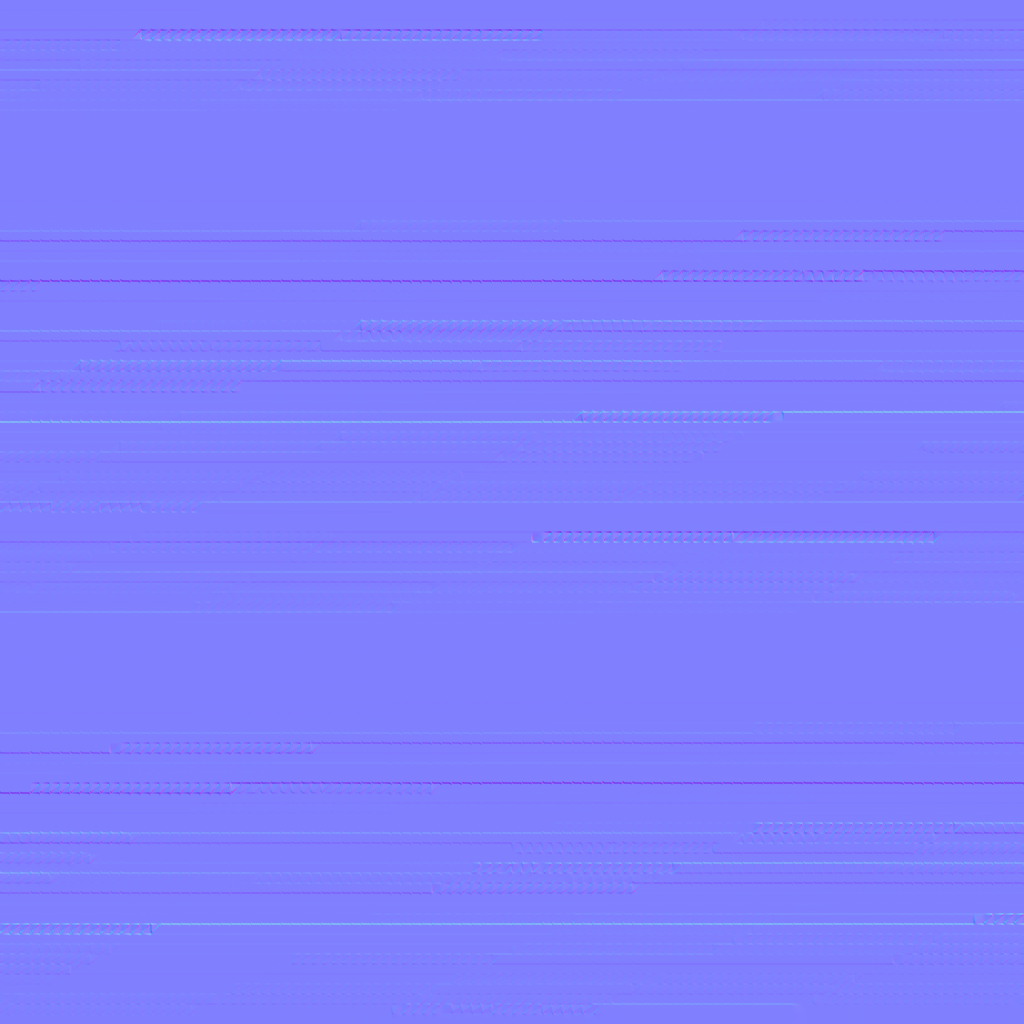
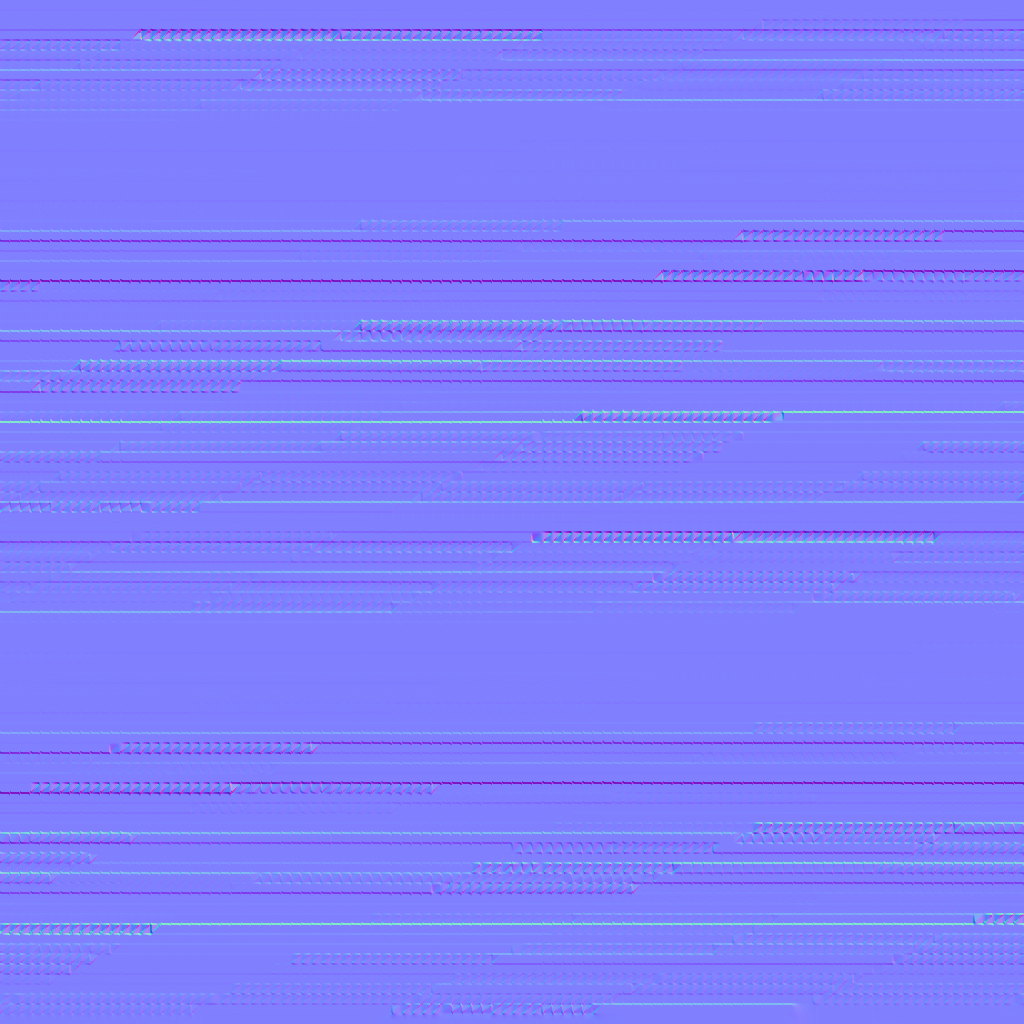
output

diff --git a/qt_3dviewer/scenemodifier.cpp b/qt_3dviewer/scenemodifier.cpp
@@ -66,7 +66,7 @@ void SceneModifier::loadImage(const QString &fileName)
     // Object
     QFileInfo filmesh(filepath[0] + ".obj");
 
-    m_potImage->setSource(QUrl::fromLocalFile("/home/vikas/Documents/3-Sweep-Library/qt_3dviewer/exampleresources/bottle_diffuse.png"));
+    m_potImage->setSource(QUrl::fromLocalFile("/home/vikas/Documents/3-Sweep-Library/qt_3dviewer/exampleresources/bottle_diffuse_2.png"));
     m_potNormalImage->setSource(QUrl::fromLocalFile("/home/vikas/Documents/3-Sweep-Library/qt_3dviewer/exampleresources/bottle_normal.png"));
 
     Qt3DRender::QMesh *mesh = new Qt3DRender::QMesh();
